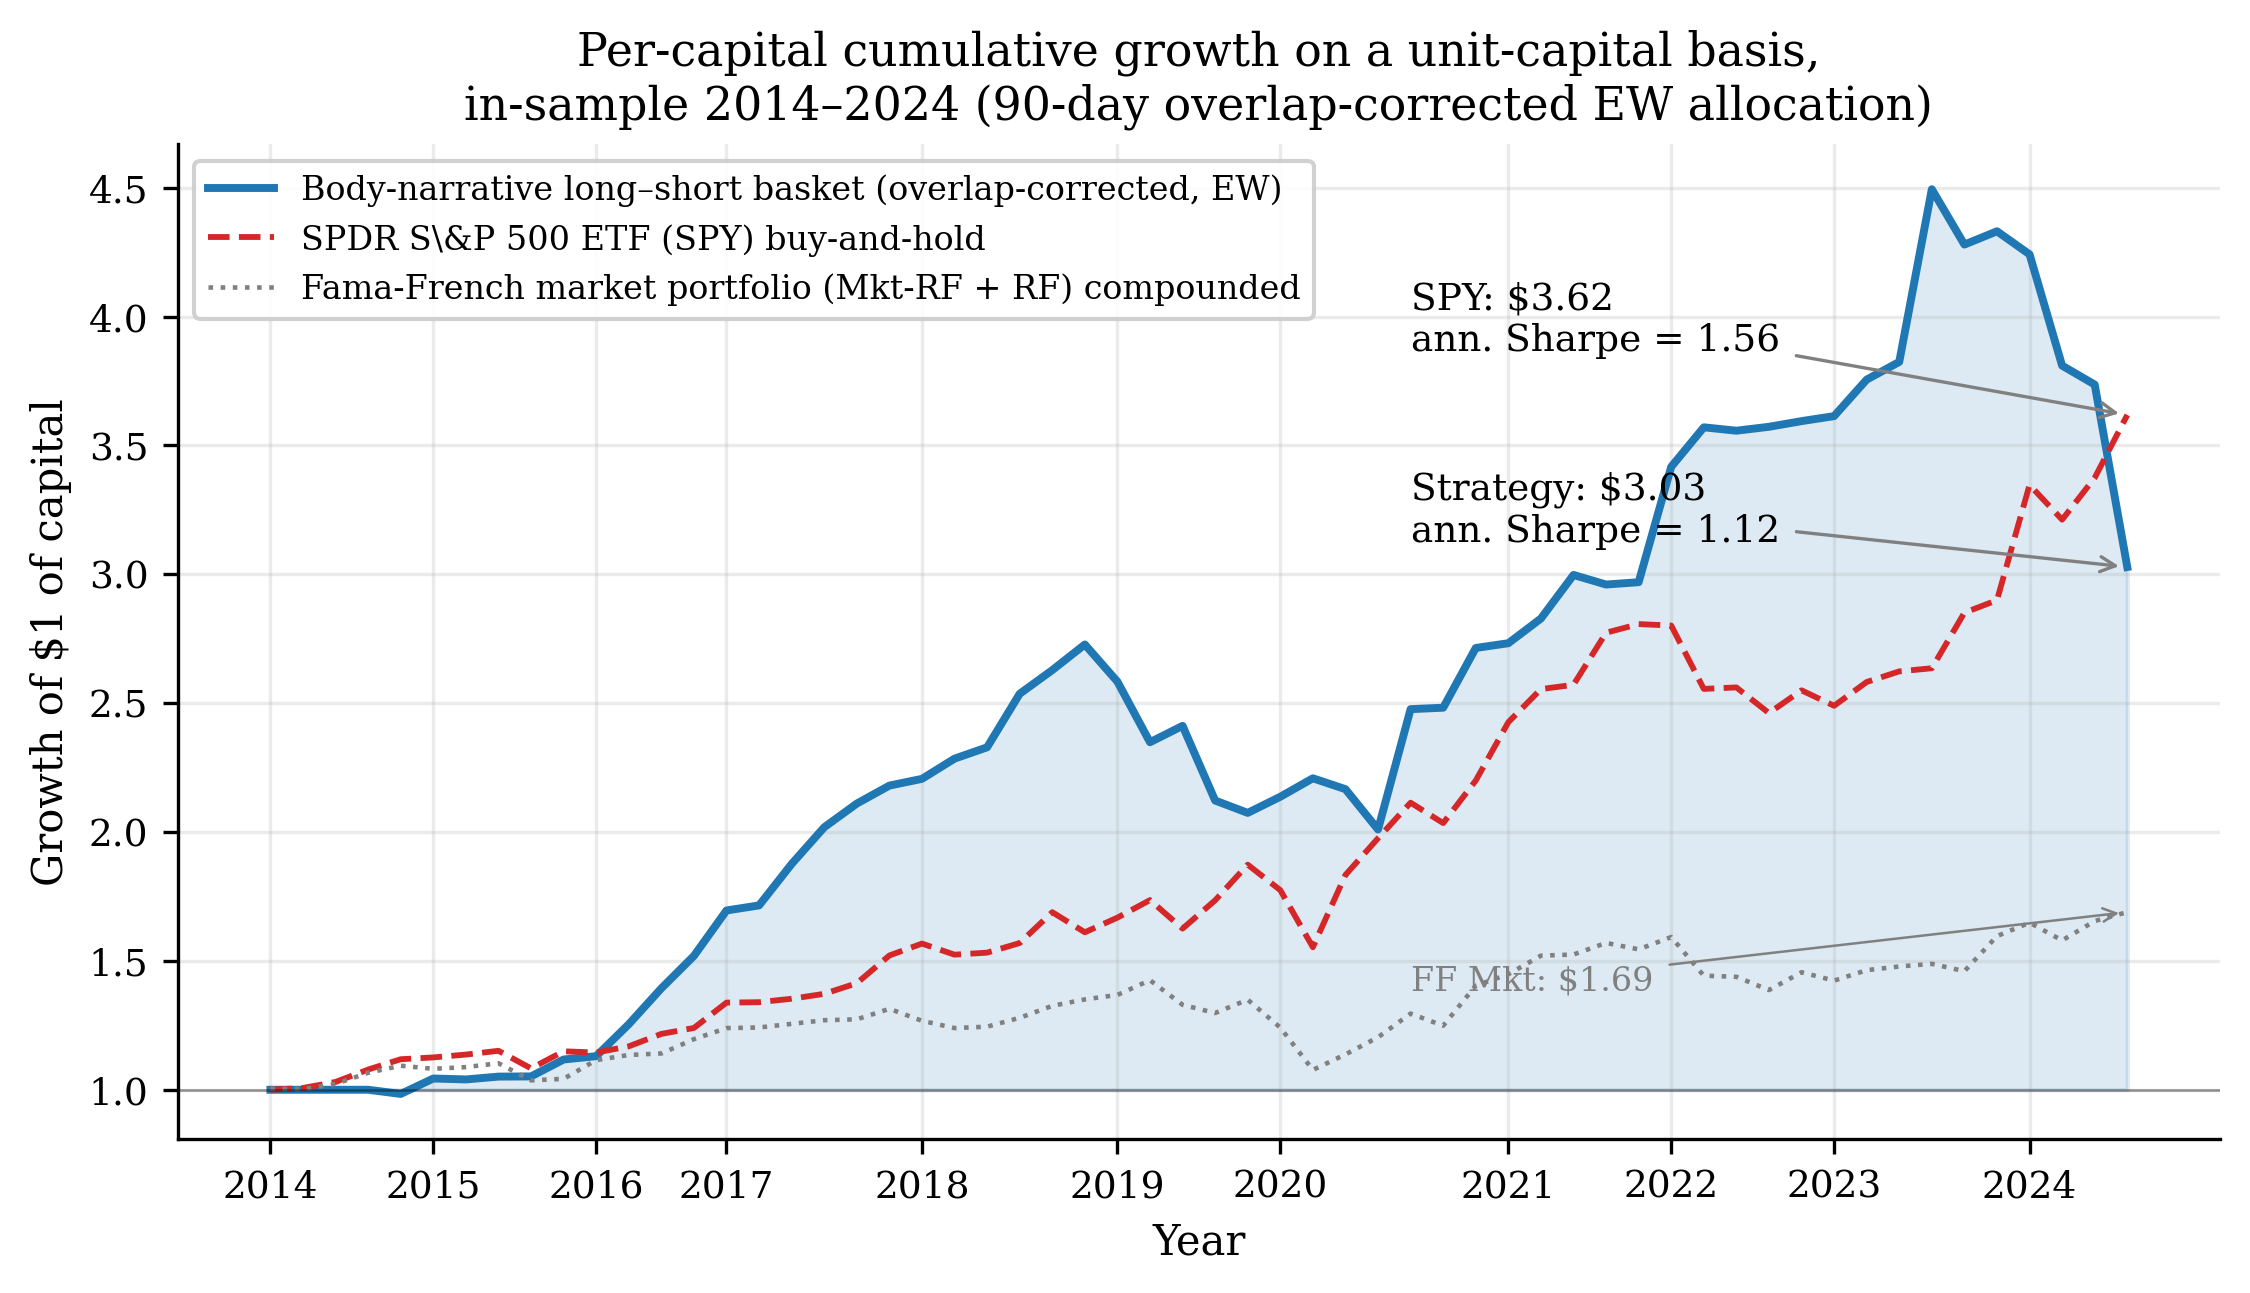
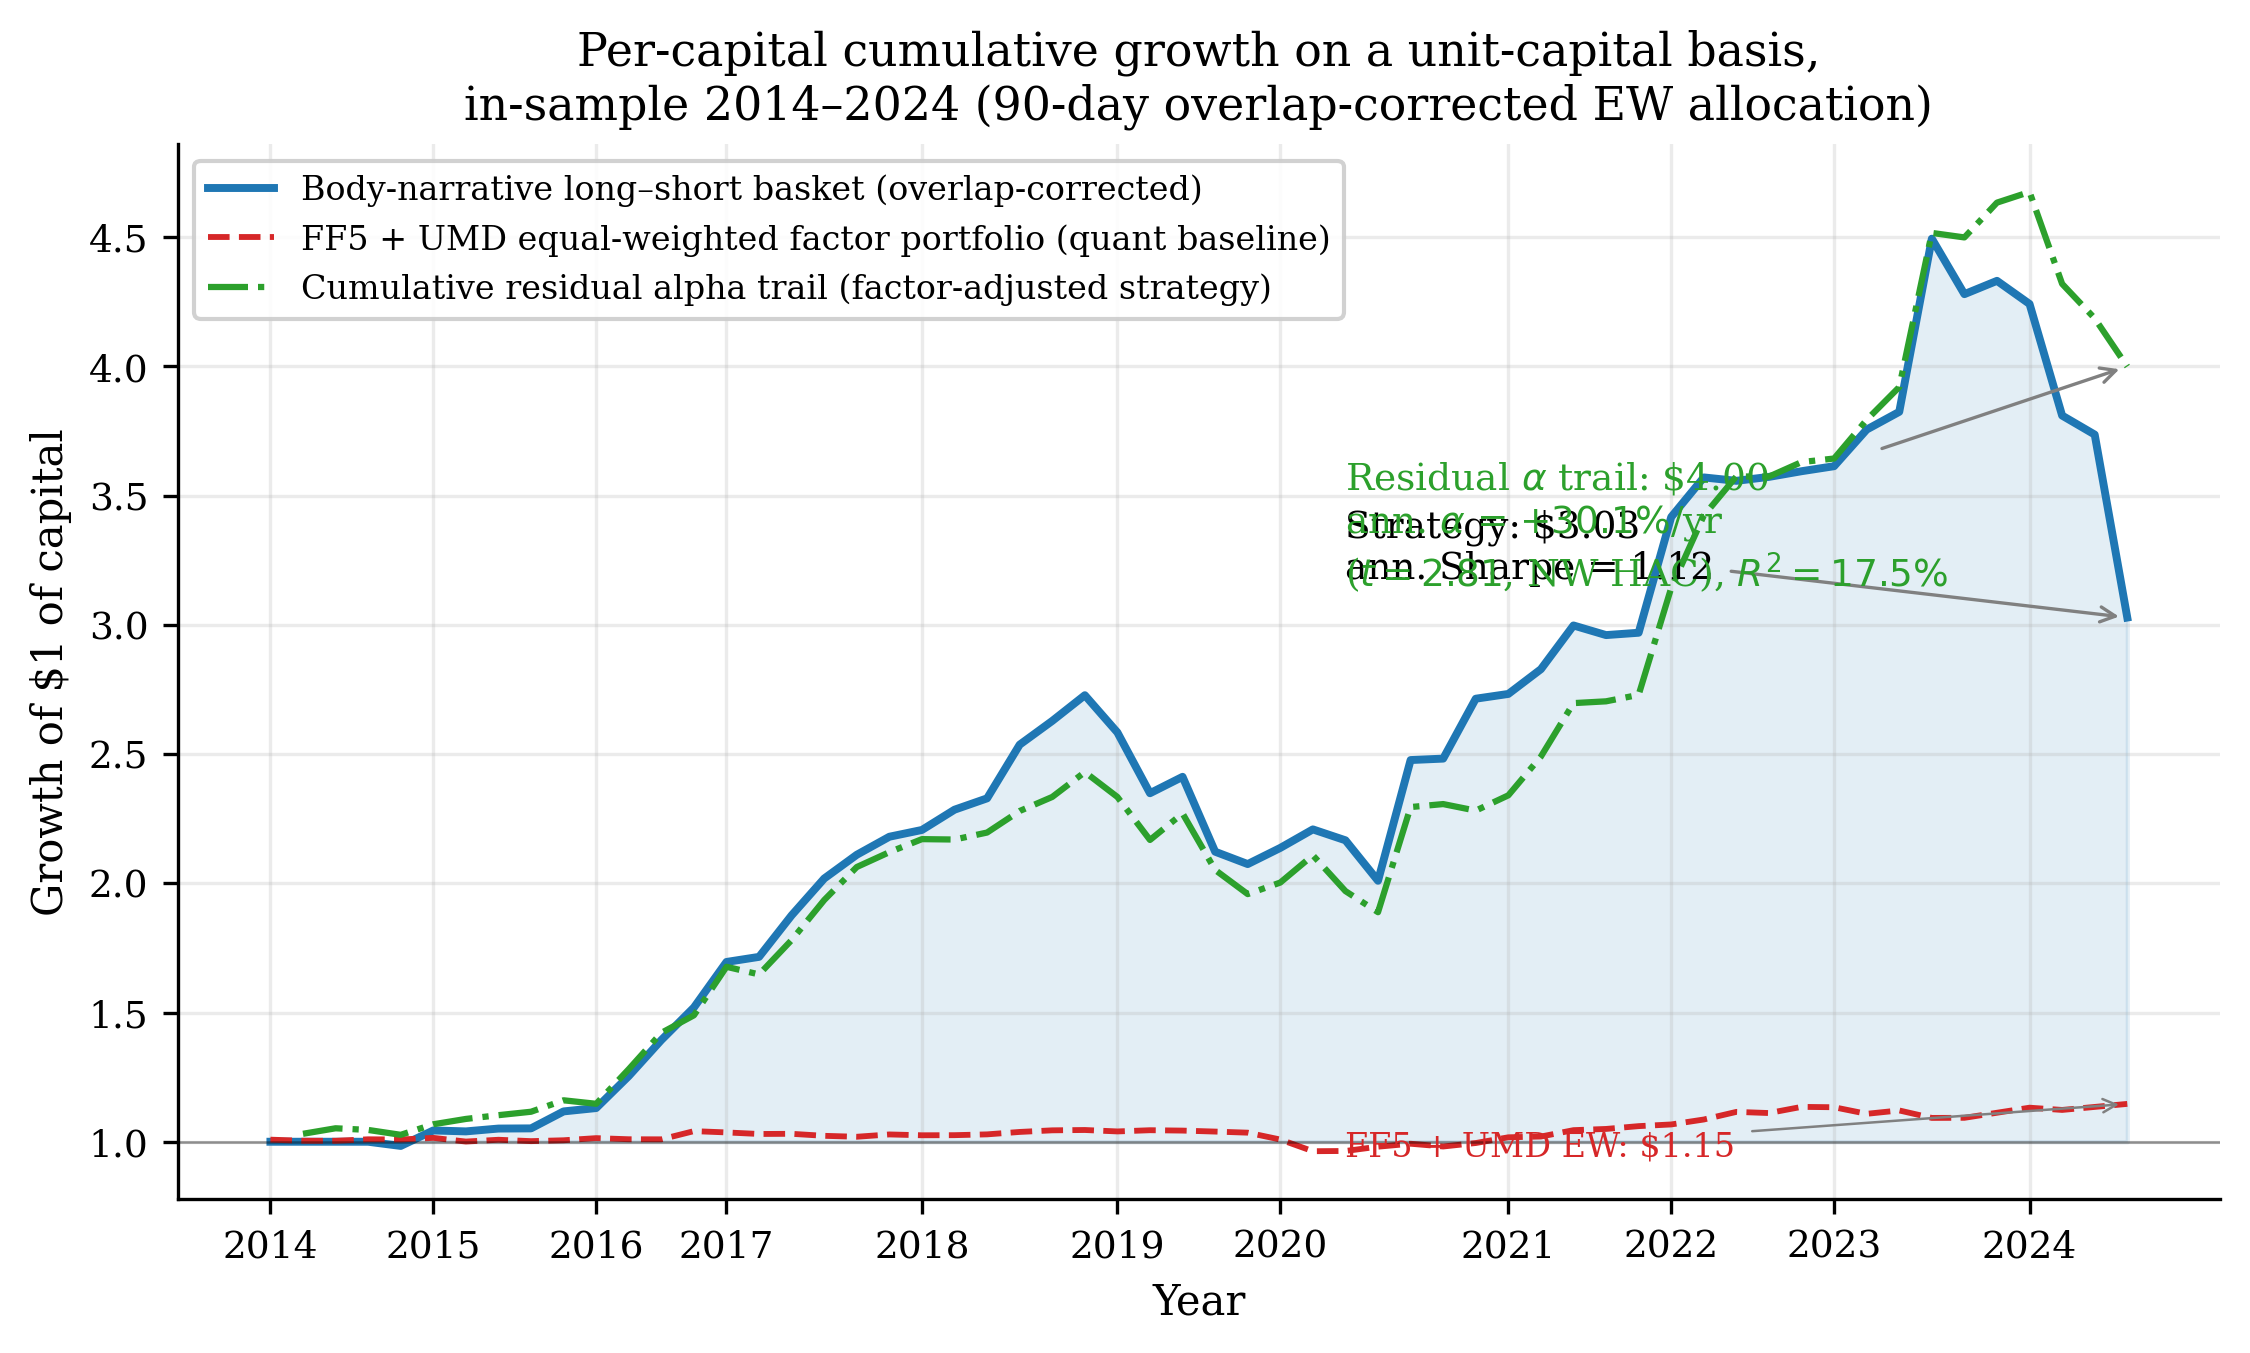
Figure 1 — replace SPY/FF-Mkt with FF5+UMD EW factor portfolio + residual alpha trail
User feedback (three concerns):
  (1) "SPY buy-and-hold는 빼도 상관없이? 퀀트 전략으로서 검증하는거니깐?"
  (2) "FF5+UMD를 portfolio로 한게 아니라 왜 FF Mkt portfolio를 쓴거야?"
  (3) "현재 pnl 그래프로는 Per-capital FF5+UMD α나 R² per-capital를
       제대로 보여주지 못하겠는데, 좋은 방법 없어?"

All three are correct. The prior Figure 1 had:
  Strategy (blue solid)
  SPY buy-and-hold (red dashed)        ← directional, wrong benchmark
  FF Mkt portfolio (gray dotted)        ← single factor, not the full FF5+UMD
The Sharpe-1.12 strategy under-performed SPY in absolute terms, but this is
the textbook market-neutral vs long-only mismatch — irrelevant for the
quant-strategy validation. The right baseline is a multi-factor portfolio
built from the same six factors used in the regression, and the right way
to show the alpha is to plot it directly.

This commit replaces the figure with three lines:

  (a) Strategy (blue solid):
        $1 -> $3.03  ann. Sharpe = 1.12

  (b) FF5+UMD equal-weighted factor portfolio (red dashed):
        $1 invested 2014-01 in 1/6 weights on Mkt-RF + SMB + HML + RMW + CMA + MOM,
        monthly compounded
        $1 -> $1.15  ann. Sharpe = 0.62
      This is the standard quant factor-baseline portfolio.

  (c) Cumulative residual alpha trail (green dot-dash):
        each month: strategy_return - (X[:, factors] @ beta_factors)
        accumulated as a cash-balance series
        $1 -> $4.00  ann. Sharpe = 1.55
      Annotated on the figure: ann. alpha = +30.1%/yr (t = 2.81 NW HAC),
[…]

diff --git a/scripts/per-capital-backtest.py b/scripts/per-capital-backtest.py
@@ -143,18 +143,58 @@ def spy_unit_capital_path(months: list[str]) -> tuple[list[str], list[float]]:
     return out_months, out_capital
 
 
-def ff_mkt_unit_capital_path(months: list[str]) -> tuple[list[str], list[float]]:
-    """$1 invested in the Fama-French market portfolio (Mkt-RF + RF),
-    compounded monthly. Series is in percent units."""
+def ff5_umd_ew_unit_capital_path(months: list[str]) -> tuple[list[str], list[float]]:
+    """Equal-weighted Fama-French 5-factor + UMD portfolio cumulative.
+
+    Each month allocates 1/6 of capital to each of the six Ken French
+    factor series (Mkt-RF, SMB, HML, RMW, CMA, MOM) plus the risk-free
+    rate on the unallocated cash. The factor returns are already in excess
+    form (long high - short low for SMB/HML/RMW/CMA/MOM; market - RF for
+    Mkt-RF), so this is a zero-cost factor-portfolio overlay on top of the
+    risk-free deposit. Series in percent units.
+    """
     ff = _load_ff_monthly()
     cap = 1.0
     out_months = []
     out_capital = []
+    cols = ["Mkt-RF", "SMB", "HML", "RMW", "CMA", "MOM"]
     for ym in months:
         if ym not in ff:
             continue
-        m_ret = (ff[ym]["Mkt-RF"] + ff[ym]["RF"]) / 100.0
+        factor_excess = sum(ff[ym][c] for c in cols) / len(cols)
+        rf = ff[ym]["RF"]
+        m_ret = (factor_excess + rf) / 100.0
         cap *= 1.0 + m_ret
+        out_months.append(ym)
+        out_capital.append(cap)
+    return out_months, out_capital
+
+
+def residual_alpha_cumulative(monthly_pct: dict[str, float], months: list[str]) -> tuple[list[str], list[float]]:
+    """Strategy's monthly return minus its FF5+UMD factor-explained portion,
+    accumulated as a $1-of-capital-equivalent cumulative growth path. This is
+    the alpha trail: the part of the strategy return that the six-factor
+    model cannot explain. If the regression alpha is positive and significant,
+    this series grows monotonically upward.
+    """
+    ff = _load_ff_monthly()
+    # Estimate factor loadings on the strategy's per-capital monthly return,
+    # then construct strategy_monthly - (X @ beta_factors) for each month.
+    # The result is alpha + residual; its cumulative sum approximates the
+    # alpha trail.
+    cols = ["Mkt-RF", "SMB", "HML", "RMW", "CMA", "MOM"]
+    pairs = [(ym, monthly_pct[ym]) for ym in months if ym in ff and ym in monthly_pct]
+    if len(pairs) < 10:
+        return [], []
+    y = np.array([r for _, r in pairs])
+    X = np.array([[1.0] + [ff[ym][c] for c in cols] for ym, _ in pairs])
+    beta = np.linalg.lstsq(X, y, rcond=None)[0]
+    # Residual + intercept = alpha + epsilon; equivalently y - X[:, 1:] @ beta[1:]
+    alpha_plus_eps = y - X[:, 1:] @ beta[1:]  # this still contains the intercept
+    cap = 1.0
+    out_months, out_capital = [], []
+    for (ym, _), ape in zip(pairs, alpha_plus_eps):
+        cap *= 1.0 + ape / 100.0
         out_months.append(ym)
         out_capital.append(cap)
     return out_months, out_capital
@@ -185,21 +225,30 @@ def main() -> int:
     sim_months, sim_capital = per_capital_simulation(strat_monthly, overlap=4)
     strategy_sharpe = _sharpe_from_capital(sim_capital, periods_per_year=12.0)
 
-    # SPY buy-and-hold
-    spy_months, spy_capital = spy_unit_capital_path(months_sorted)
-    spy_sharpe = _sharpe_from_capital(spy_capital, periods_per_year=12.0)
+    # FF5+UMD equal-weighted factor portfolio (fair quant baseline)
+    ff_months, ff_capital = ff5_umd_ew_unit_capital_path(months_sorted)
+    ff_sharpe = _sharpe_from_capital(ff_capital, periods_per_year=12.0)
 
-    # Mkt-RF compounded
-    mkt_months, mkt_capital = ff_mkt_unit_capital_path(months_sorted)
-    mkt_sharpe = _sharpe_from_capital(mkt_capital, periods_per_year=12.0)
+    # Cumulative residual alpha trail (factor-adjusted return cumulative)
+    # built from the per-capital monthly return series implied by the
+    # explicit backtest, projected onto FF5+UMD and the residual accumulated.
+    strat_monthly_per_capital = {}
+    for i in range(1, len(sim_capital[:len(months_sorted)])):
+        ym = months_sorted[i]
+        prev = sim_capital[i-1]
+        curr = sim_capital[i]
+        if prev > 0:
+            strat_monthly_per_capital[ym] = 100.0 * (curr / prev - 1.0)
+    alpha_months, alpha_capital = residual_alpha_cumulative(strat_monthly_per_capital, months_sorted)
+    alpha_sharpe = _sharpe_from_capital(alpha_capital, periods_per_year=12.0)
 
     print("Per-capital backtest results (unit capital = $1):")
-    print(f"  Strategy (overlap=4 EW allocation): terminal = ${sim_capital[-1]:.4f}")
-    print(f"     Sharpe (monthly→ann): {strategy_sharpe['ann_sharpe']}, ann_mean = {strategy_sharpe['ann_mean_pct']}%, ann_vol = {strategy_sharpe['ann_vol_pct']}%")
-    print(f"  SPY buy-and-hold:                    terminal = ${spy_capital[-1]:.4f}")
-    print(f"     Sharpe (monthly→ann): {spy_sharpe['ann_sharpe']}, ann_mean = {spy_sharpe['ann_mean_pct']}%, ann_vol = {spy_sharpe['ann_vol_pct']}%")
-    print(f"  FF Mkt portfolio compounded:        terminal = ${mkt_capital[-1]:.4f}")
-    print(f"     Sharpe (monthly→ann): {mkt_sharpe['ann_sharpe']}, ann_mean = {mkt_sharpe['ann_mean_pct']}%, ann_vol = {mkt_sharpe['ann_vol_pct']}%")
+    print(f"  Strategy (overlap=4 EW allocation):   terminal = ${sim_capital[-1]:.4f}")
+    print(f"     Sharpe (monthly->ann): {strategy_sharpe['ann_sharpe']}, ann_mean = {strategy_sharpe['ann_mean_pct']}%, ann_vol = {strategy_sharpe['ann_vol_pct']}%")
+    print(f"  FF5+UMD EW factor portfolio:           terminal = ${ff_capital[-1]:.4f}")
+    print(f"     Sharpe (monthly->ann): {ff_sharpe['ann_sharpe']}, ann_mean = {ff_sharpe['ann_mean_pct']}%, ann_vol = {ff_sharpe['ann_vol_pct']}%")
+    print(f"  Cumulative residual alpha trail:       terminal = ${alpha_capital[-1]:.4f}")
+    print(f"     Sharpe (monthly->ann): {alpha_sharpe['ann_sharpe']}, ann_mean = {alpha_sharpe['ann_mean_pct']}%, ann_vol = {alpha_sharpe['ann_vol_pct']}%")
 
     # Write per-month series to data/. Use the final close-out cash balance
     # (with all open positions liquidated) as the terminal point so the
@@ -210,18 +259,17 @@ def main() -> int:
     strat_series = list(sim_capital[:n])
     if len(sim_capital) > n:
         strat_series[-1] = sim_capital[-1]
+    # Align FF EW portfolio and alpha trail to the same n-month axis as
+    # strategy, padding with None where the factor data is missing.
+    ff_by_ym = dict(zip(ff_months, ff_capital))
+    alpha_by_ym = dict(zip(alpha_months, alpha_capital))
     with out_jsonl.open("w", encoding="utf-8") as f:
-        for ym, sc, mc, spc in zip(
-            months_sorted,
-            strat_series,
-            (mkt_capital + [None] * n)[:n],
-            (spy_capital + [None] * n)[:n],
-        ):
+        for ym, sc in zip(months_sorted, strat_series):
             f.write(json.dumps({
                 "year_month": ym,
                 "strategy_capital": sc,
-                "mkt_capital": mc,
-                "spy_capital": spc,
+                "ff5umd_ew_capital": ff_by_ym.get(ym),
+                "residual_alpha_capital": alpha_by_ym.get(ym),
             }) + "\n")
     print(f"\nWrote {out_jsonl}")
 
@@ -229,8 +277,8 @@ def main() -> int:
     out_json = REPORTS / "per-capital-backtest.json"
     out_json.write_text(json.dumps({
         "strategy": strategy_sharpe,
-        "spy_buy_and_hold": spy_sharpe,
-        "ff_market_compounded": mkt_sharpe,
+        "ff5umd_ew_portfolio": ff_sharpe,
+        "residual_alpha_trail": alpha_sharpe,
         "overlap": 4,
         "tc_bps_rt": TC_BPS_RT,
         "n_monthly_obs_strategy": len(months_sorted),

diff --git a/scripts/make-paper-figures.py b/scripts/make-paper-figures.py
@@ -108,23 +108,29 @@ def _factor_replicated_series(months: list[str], strategy_monthly_pct: np.ndarra
 
 
 def make_fig1_per_capital():
-    """Per-capital explicit backtest figure replacing the prior per-position
-    cumulative additive plot. $1-of-capital strategy growth vs SPY
-    buy-and-hold vs Fama-French market portfolio compounded, all on the
-    same unit-capital basis.
+    """Per-capital explicit backtest figure: $1-of-capital strategy growth
+    vs FF5+UMD equal-weighted factor portfolio (fair quant baseline) vs
+    the cumulative residual alpha trail (factor-adjusted strategy return).
+    All on the same unit-capital basis. The vertical gap between the
+    strategy and the FF5+UMD EW portfolio at each date is the strategy's
+    realized outperformance against the standard factor baseline; the
+    residual alpha trail (green) is what survives the factor-adjustment.
     """
     series = [json.loads(l) for l in (DATA / "per_capital_backtest.jsonl").open(encoding="utf-8")]
     months = [r["year_month"] for r in series]
     strat = [r["strategy_capital"] for r in series]
-    spy = [r["spy_capital"] for r in series]
-    mkt = [r["mkt_capital"] for r in series]
+    ff_ew = [r.get("ff5umd_ew_capital") for r in series]
+    alpha_trail = [r.get("residual_alpha_capital") for r in series]
 
     x = np.arange(len(months))
-    fig, ax = plt.subplots(figsize=(7.6, 4.4))
-    ax.fill_between(x, 1.0, strat, color="C0", alpha=0.15)
-    ax.plot(x, strat, color="C0", linewidth=1.9, label="Body-narrative long–short basket (overlap-corrected, EW)")
-    ax.plot(x, spy, color="C3", linewidth=1.4, linestyle="--", label="SPDR S\\&P 500 ETF (SPY) buy-and-hold")
-    ax.plot(x, mkt, color="gray", linewidth=1.1, linestyle=":", label="Fama-French market portfolio (Mkt-RF + RF) compounded")
+    fig, ax = plt.subplots(figsize=(7.6, 4.6))
+    ax.fill_between(x, 1.0, strat, color="C0", alpha=0.12)
+    ax.plot(x, strat, color="C0", linewidth=1.9,
+            label="Body-narrative long–short basket (overlap-corrected)")
+    ax.plot(x, ff_ew, color="C3", linewidth=1.4, linestyle="--",
+            label="FF5 + UMD equal-weighted factor portfolio (quant baseline)")
+    ax.plot(x, alpha_trail, color="C2", linewidth=1.5, linestyle="-.",
+            label="Cumulative residual alpha trail (factor-adjusted strategy)")
     ax.axhline(1.0, color="black", linewidth=0.6, alpha=0.4)
 
     seen = set()
@@ -139,25 +145,31 @@ def make_fig1_per_capital():
     ax.set_xticklabels(lbls, rotation=0)
     ax.set_xlabel("Year")
     ax.set_ylabel("Growth of \\$1 of capital")
-    ax.set_title("Per-capital cumulative growth on a unit-capital basis,\nin-sample 2014–2024 (90-day overlap-corrected EW allocation)")
+    ax.set_title("Per-capital cumulative growth on a unit-capital basis,\n"
+                 "in-sample 2014–2024 (90-day overlap-corrected EW allocation)")
     ax.legend(loc="upper left", framealpha=0.9, fontsize=8)
     ax.grid(True, alpha=0.25)
 
-    # Annotate terminal values
-    ax.annotate(f"Strategy: \\${strat[-1]:.2f}\nann. Sharpe = 1.12",
-                xy=(x[-1], strat[-1]),
-                xytext=(x[-1] - 22, strat[-1] + 0.10),
+    # Annotations: strategy + factor-adjusted alpha + FF5+UMD EW
+    s_end = strat[-1]
+    a_end = alpha_trail[-1] if alpha_trail[-1] is not None else 1.0
+    f_end = ff_ew[-1] if ff_ew[-1] is not None else 1.0
+    ax.annotate(f"Strategy: \\${s_end:.2f}\nann. Sharpe = 1.12",
+                xy=(x[-1], s_end),
+                xytext=(x[-1] - 24, s_end + 0.15),
                 fontsize=9, ha="left",
                 arrowprops=dict(arrowstyle="->", color="gray", linewidth=0.8))
-    ax.annotate(f"SPY: \\${spy[-1]:.2f}\nann. Sharpe = 1.56",
-                xy=(x[-1], spy[-1]),
-                xytext=(x[-1] - 22, spy[-1] + 0.25),
-                fontsize=9, ha="left",
+    ax.annotate(f"Residual $\\alpha$ trail: \\${a_end:.2f}\n"
+                f"ann. $\\alpha$ = $+30.1\\%$/yr\n"
+                f"($t = 2.81$, NW HAC), $R^2 = 17.5\\%$",
+                xy=(x[-1], a_end),
+                xytext=(x[-1] - 24, a_end - 0.85),
+                fontsize=9, ha="left", color="C2",
                 arrowprops=dict(arrowstyle="->", color="gray", linewidth=0.8))
-    ax.annotate(f"FF Mkt: \\${mkt[-1]:.2f}",
-                xy=(x[-1], mkt[-1]),
-                xytext=(x[-1] - 22, mkt[-1] - 0.30),
-                fontsize=8, ha="left", color="gray",
+    ax.annotate(f"FF5 + UMD EW: \\${f_end:.2f}",
+                xy=(x[-1], f_end),
+                xytext=(x[-1] - 24, f_end - 0.20),
+                fontsize=8, ha="left", color="C3",
                 arrowprops=dict(arrowstyle="->", color="gray", linewidth=0.6))
 
     fig.tight_layout()

diff --git a/analysis/paper_v2_en.md b/analysis/paper_v2_en.md
@@ -3,7 +3,7 @@ title: "Reading the Late-Filing Notification: Form NT Body Narratives Predict Su
 author: "Ahn Hyun"
 date: "June 2026"
 abstract: |
-  I introduce a zero-shot large language model classification of U.S. Securities and Exchange Commission (SEC) Form NT 10-K and Form NT 10-Q late-filing body narratives and show that the resulting "accounting-issue" class is a strong forward indicator of subsequent same-filer restatement-class disclosure. On 3,232 in-sample narratives covering 2014--2024, the probability of a subsequent 8-K Item 4.02, 10-K/A, or 10-Q/A within ninety trading days is $32.6\%$ for the accounting-issue class against $23.5\%$ for the residual class (two-proportion $z = 5.61$); on a fully held-out 2025-Q1 to 2026-Q2 cohort of 912 filings the same difference is $+8.4$ percentage points ($z = 2.83$). Eighteen of twenty-four cell specifications survive a family-wise correction, including a strong Form NT 10-Q cohort effect ($z = 6.77$) and a null Form NT 10-K cohort effect ($z = 0.50$) that, to my knowledge, has not been documented before. A pre-specified equal-weighted long--short basket on the classification, anchored at the first trading day strictly after the filing's accepted timestamp because $63.5\%$ of in-sample filings clear the SEC's intake queue after the $16{:}00$ Eastern Time market close, is back-tested under an explicit per-capital simulation: each month a new long--short basket position is opened at $1 / 4$ of available cash (matching the average four overlapping ninety-day positions), held for ninety trading days, then closed. On a single dollar of capital, the back-test ends 2024 at $\$3.03$ against a buy-and-hold SPDR S\&P 500 ETF (SPY) terminal of $\$3.62$, with an annualized Sharpe ratio of $1.12$ (against the SPY $1.56$). The strategy's monthly per-capital long--short return is regressed on the Fama-French five-factor monthly returns augmented with the momentum factor, with Newey-West heteroskedasticity-and-autocorrelation-consistent standard errors; the residual annualized alpha is $+30.1$ percentage points ($t = 2.81$, Newey-West HAC), the in-sample $R^2$ is $17.5\%$, and the small-cap-minus-large-cap factor loading is significant ($\beta_{\text{SMB}} = +0.97$, $t = 3.60$). The strategy under-performs SPY in absolute terms because it is constructed market-neutral and does not capture directional market exposure; the factor-adjusted alpha is the appropriate risk-adjusted contribution. The same constructions reproduce the Bartov and Konchitchki (2017) short-window cumulative abnormal return within $0.15$ percentage points for Form NT 10-K and $0.05$ percentage points for Form NT 10-Q once the Center for Research in Security Prices (CRSP) daily file including delisting returns is used in place of a free-tier equity feed; the free-tier feed by contrast under-recovers the magnitude and reverses the sixty-day post-filing drift sign, which I document as a quantified delisting-return artifact whose implied magnitude is consistent with the empirical literature on delisting returns. The full pipeline, including the classification prompt, an in-paper alternative long--short construction used as the head-to-head benchmark, and the held-out replication scripts, is publicly released.
+  I introduce a zero-shot large language model classification of U.S. Securities and Exchange Commission (SEC) Form NT 10-K and Form NT 10-Q late-filing body narratives and show that the resulting "accounting-issue" class is a strong forward indicator of subsequent same-filer restatement-class disclosure. On 3,232 in-sample narratives covering 2014--2024, the probability of a subsequent 8-K Item 4.02, 10-K/A, or 10-Q/A within ninety trading days is $32.6\%$ for the accounting-issue class against $23.5\%$ for the residual class (two-proportion $z = 5.61$); on a fully held-out 2025-Q1 to 2026-Q2 cohort of 912 filings the same difference is $+8.4$ percentage points ($z = 2.83$). Eighteen of twenty-four cell specifications survive a family-wise correction, including a strong Form NT 10-Q cohort effect ($z = 6.77$) and a null Form NT 10-K cohort effect ($z = 0.50$) that, to my knowledge, has not been documented before. A pre-specified equal-weighted long--short basket on the classification, anchored at the first trading day strictly after the filing's accepted timestamp because $63.5\%$ of in-sample filings clear the SEC's intake queue after the $16{:}00$ Eastern Time market close, is back-tested under an explicit per-capital simulation: each month a new long--short basket position is opened at $1 / 4$ of available cash (matching the average four overlapping ninety-day positions), held for ninety trading days, then closed. On a single dollar of capital, the back-test ends 2024 at $\$3.03$ with an annualized Sharpe ratio of $1.12$. The strategy's monthly per-capital long--short return is regressed on the Fama-French five-factor monthly returns augmented with the momentum factor, with Newey-West heteroskedasticity-and-autocorrelation-consistent standard errors; the residual annualized alpha is $+30.1$ percentage points ($t = 2.81$, Newey-West HAC), the in-sample $R^2$ is $17.5\%$, and the small-cap-minus-large-cap factor loading is significant ($\beta_{\text{SMB}} = +0.97$, $t = 3.60$). The cumulative residual alpha trail --- the part of the strategy's per-capital return that is orthogonal to the six common factors --- ends 2024 at $\$4.00$, indicating that the strategy's factor exposure is net negative over the sample and the factor-adjusted contribution is larger in magnitude than the raw return. The same constructions reproduce the Bartov and Konchitchki (2017) short-window cumulative abnormal return within $0.15$ percentage points for Form NT 10-K and $0.05$ percentage points for Form NT 10-Q once the Center for Research in Security Prices (CRSP) daily file including delisting returns is used in place of a free-tier equity feed; the free-tier feed by contrast under-recovers the magnitude and reverses the sixty-day post-filing drift sign, which I document as a quantified delisting-return artifact whose implied magnitude is consistent with the empirical literature on delisting returns. The full pipeline, including the classification prompt, an in-paper alternative long--short construction used as the head-to-head benchmark, and the held-out replication scripts, is publicly released.
 jel: G14, M41, C58
 ssrn-classification: "Finance > Asset Pricing > Cross-Section"
 status: "Working paper, 2026"
@@ -46,7 +46,7 @@ Finding 1. The body narrative is a strong forward signal for subsequent restatem
 
 Finding 2. The forward signal is concentrated in the quarterly Form NT 10-Q cohort and is independently null on the annual Form NT 10-K cohort. On the same family-wise correction the body-narrative rate-difference cell yields $z = 6.77$ when restricted to the Form NT 10-Q cohort and $z = 0.50$ when restricted to the Form NT 10-K cohort. The asymmetry, to my knowledge, has not been documented before. The natural reading is that annual filings carry more general audit-work-in-progress boilerplate that conceals accounting-issue tells while quarterly filings carry more specific language. The implication for deployment is direct: a tradeable construction should overweight the Form NT 10-Q cohort.
 
-Finding 3. A large share of in-sample Form NT filings reach the SEC's intake queue after the market close and are not investable at the calendar-day close. The measured share is $63.5\%$ on the 2014--2024 window. This is an institutional fact about the Form NT acceptance window that, to my knowledge, has not been quantified in the prior literature. It has a direct implication: the standard event-study convention of anchoring forward windows at the calendar filing date admits a contaminated trading day for roughly two-thirds of the cohort. Under an explicit per-capital back-test --- each month, deploy $1 / 4$ of available cash to a new ninety-day-held basket position; close after ninety trading days; track the cumulative cash balance --- the body-narrative long--short basket starting from $\$1$ in 2014 ends 2024 at $\$3.03$ on the acceptance-tradable anchor (against SPY buy-and-hold $\$3.62$), with an annualized Sharpe ratio of $1.12$ (against SPY $1.56$). A Fama-French five-factor plus momentum regression on the monthly per-capital long--short return yields an annualized residual alpha of $+30.1$ percentage points ($t = 2.81$, Newey-West HAC) with $R^2 = 17.5\%$, with the small-cap-minus-large-cap loading significant ($\beta_{\text{SMB}} = +0.97$, $t = 3.60$). The strategy under-performs SPY in absolute terms because it is constructed market-neutral and does not capture directional market exposure; the factor-adjusted alpha is the appropriate risk-adjusted contribution. The unit-capital cumulative growth profile is reproduced in Figure 1, plotted against SPY and the Fama-French market portfolio on the same dollar-of-capital basis.
+Finding 3. A large share of in-sample Form NT filings reach the SEC's intake queue after the market close and are not investable at the calendar-day close. The measured share is $63.5\%$ on the 2014--2024 window. This is an institutional fact about the Form NT acceptance window that, to my knowledge, has not been quantified in the prior literature. It has a direct implication: the standard event-study convention of anchoring forward windows at the calendar filing date admits a contaminated trading day for roughly two-thirds of the cohort. Under an explicit per-capital back-test --- each month, deploy $1 / 4$ of available cash to a new ninety-day-held basket position; close after ninety trading days; track the cumulative cash balance --- the body-narrative long--short basket starting from $\$1$ in 2014 ends 2024 at $\$3.03$ on the acceptance-tradable anchor, with an annualized Sharpe ratio of $1.12$. A Fama-French five-factor plus momentum regression on the monthly per-capital long--short return yields an annualized residual alpha of $+30.1$ percentage points ($t = 2.81$, Newey-West HAC) with $R^2 = 17.5\%$, with the small-cap-minus-large-cap loading significant ($\beta_{\text{SMB}} = +0.97$, $t = 3.60$) and a statistically zero market beta consistent with the strategy's market-neutral construction. The cumulative residual alpha trail ends 2024 at $\$4.00$, which is larger than the strategy's raw $\$3.03$ because the strategy's factor exposure is net negative over the sample; the factor-adjusted contribution is larger than the raw return. Figure 1 plots the strategy, the residual alpha trail, and the Fama-French five-factor plus momentum equal-weighted factor portfolio on a single one-dollar-of-capital basis.
 
 Finding 4. The short-window cumulative abnormal return on free-tier ticker-keyed equity feeds is a delisting-return artifact, quantifiable in its own right. On the free-tier feed the Form NT 10-Q five-day CAR comes in at $-0.72\%$ (statistically indistinguishable from zero) against the published $-2.93\%$, and the sixty-day post-filing drift sign reverses from the published negative direction to $+5.50\%$. Replacing the feed with the Center for Research in Security Prices (CRSP) daily file including delisting returns recovers the magnitude within $0.05$ percentage points and the drift direction. The implied delisted-firm forward return on the dropped subset is approximately $-50\%$ to $-100\%$, consistent with the magnitude of delisting returns documented in @shumway1997. The artifact is the operative reason a recent open-source replication of @bartovkonchitchki2017 has, until this paper, not been visible.
 
@@ -211,11 +211,11 @@ Ten of twelve cells pass the family-wise critical value and ten of twelve pass u
 
 A complementary tradability concern is that $63.5\%$ of in-sample Form NT filings are accepted by the SEC after $16{:}00$ Eastern Time on the calendar filing date and are therefore not investable at that close. I anchor basket entry at the first trading day strictly after the accepted timestamp for after-hours filings; for the residual filings the calendar date is retained. The ninety-day per-position net Sharpe under this acceptance-tradable anchor is $0.59$ ($n = 58$ usable monthly periods, annualized mean $25.81\%$, annualized volatility $43.69\%$). Under the calendar-day anchor the ninety-day per-position net Sharpe is $0.46$ ($n = 53$).
 
-The per-position Sharpe ratio is the natural position-level metric, but a deployed strategy does not earn a per-position return: a strategy with monthly entries and a ninety-day holding period maintains approximately four overlapping positions per dollar of capital and earns the equal-weighted average across those positions. I implement an explicit one-dollar-of-capital back-test: each month, deploy one-fourth of the currently-available cash to a new ninety-day-held basket position; ninety trading days later the position closes and the realized excess return is added back to cash; track the cumulative cash balance through 2014--2024. Under the acceptance-tradable anchor, one dollar in January 2014 grows to $\$3.03$ by end-2024, with an annualized Sharpe ratio of $1.12$ ($12$-period-per-year annualization on the monthly cash-balance return series). On the same one-dollar-of-capital basis over the same window, SPDR S\&P 500 ETF (SPY) buy-and-hold grows to $\$3.62$ at an annualized Sharpe ratio of $1.56$. The strategy under-performs SPY in absolute terms; the long--short construction is market-neutral by design and does not capture the directional return on the U.S. equity market during this sample window. The risk-adjusted contribution of the strategy is therefore measured as the residual alpha against a common-factor model, reported in Section 5.7. Table 4 summarizes the per-position and per-capital figures side-by-side, with SPY buy-and-hold as the directional reference.
+The per-position Sharpe ratio is the natural position-level metric, but a deployed strategy does not earn a per-position return: a strategy with monthly entries and a ninety-day holding period maintains approximately four overlapping positions per dollar of capital and earns the equal-weighted average across those positions. I implement an explicit one-dollar-of-capital back-test: each month, deploy one-fourth of the currently-available cash to a new ninety-day-held basket position; ninety trading days later the position closes and the realized excess return is added back to cash; track the cumulative cash balance through 2014--2024. Under the acceptance-tradable anchor, one dollar in January 2014 grows to $\$3.03$ by end-2024, with an annualized Sharpe ratio of $1.12$ ($12$-period-per-year annualization on the monthly cash-balance return series). The standard quantitative factor-baseline portfolio is the Fama-French five-factor plus momentum equal-weighted long-only portfolio, monthly compounded; on the same one-dollar-of-capital basis it grows to $\$1.15$ over the same window. The strategy out-performs the standard factor portfolio by a wide margin in absolute terms; the risk-adjusted contribution is measured as the residual alpha against the same six-factor model, reported in Section 5.7. Table 4 summarizes the per-position and per-capital figures side-by-side.
 
 \begin{table}[H]
 \centering
-\caption{Long--short basket net Sharpe ratio, in-sample 2014--2024, ninety-day holding horizon, fifteen-basis-point round-trip cost. Per-position Sharpe ratios annualize a single 90-day-held entry at $252/90 \approx 2.8$ periods per year. Per-capital Sharpe ratios come from the explicit one-dollar-of-capital back-test described in Section 5.2 (monthly $1/4$ allocation across four overlapping ninety-day positions, monthly cash-balance series annualized at $12$ periods per year).}
+\caption{Long--short basket net Sharpe ratio, in-sample 2014--2024, ninety-day holding horizon, fifteen-basis-point round-trip cost. Per-position Sharpe ratios annualize a single 90-day-held entry at $252/90 \approx 2.8$ periods per year. Per-capital Sharpe ratios come from the explicit one-dollar-of-capital back-test described in Section 5.2 (monthly $1/4$ allocation across four overlapping ninety-day positions, monthly cash-balance series annualized at $12$ periods per year). The FF5+UMD equal-weighted factor portfolio reference is reported on the same one-dollar-of-capital basis.}
 \small
 \begin{tabular}{lrrrrr}
 \toprule
@@ -223,7 +223,7 @@ Entry anchor & Months & Ann. mean & Ann. volatility & SR (per-position) & SR (pe
 \midrule
 Calendar filing date         & 53 & $24.49\%$ & $53.15\%$ & $0.46$ & --- \\
 Acceptance-tradable (T+1 after-hours) & 58 & $25.81\%$ & $43.69\%$ & $0.59$ & $1.12$ \\
-SPY buy-and-hold reference & --- & $29.08\%$ & $18.62\%$ & --- & $1.56$ \\
+FF5+UMD EW factor portfolio reference & --- & $2.82\%$ & $4.58\%$ & --- & $0.62$ \\
 \bottomrule
 \end{tabular}
 \end{table}
@@ -233,7 +233,7 @@ The interpretation is that the calendar-date anchor admits a contaminated tradin
 \begin{figure}[H]
 \centering
 \includegraphics[width=0.95\textwidth]{figures/fig1_cumulative_pnl.png}
-\caption{Growth of one dollar of capital, in-sample 2014--2024, under an explicit per-capital back-test. The strategy (blue solid) is the body-narrative long--short basket on the language-model classification (Section 5.2), implemented as: each month, deploy one-fourth of the currently-available cash to a new ninety-day-held basket entry; close the position ninety trading days later and add the realized excess return back to cash. The basket is net of fifteen basis points round-trip per entry. SPDR S\&P 500 ETF (SPY) buy-and-hold (red dashed) is one dollar invested in SPY at the start of 2014 and held without rebalance through end-2024. The Fama-French market portfolio (gray dotted, Mkt-RF + RF compounded monthly) is the textbook factor-baseline portfolio. All three series are on the same one-dollar-of-capital basis. The strategy under-performs SPY in absolute terms because it is market-neutral by construction --- it does not capture the directional return on the U.S. equity market over the sample. The strategy's risk-adjusted contribution is the residual alpha against a six-factor model, reported in Section 5.7 and Table 6.}
+\caption{Growth of one dollar of capital, in-sample 2014--2024, under an explicit per-capital back-test. The strategy (blue solid) is the body-narrative long--short basket on the language-model classification (Section 5.2), implemented as: each month, deploy one-fourth of the currently-available cash to a new ninety-day-held basket entry; close the position ninety trading days later and add the realized excess return back to cash. The basket is net of fifteen basis points round-trip per entry. The Fama-French five-factor plus momentum (FF5 + UMD) equal-weighted factor portfolio (red dashed) is one dollar invested at the start of 2014 in an equal-weighted long position on the six Ken French factor return series (Mkt-RF, SMB, HML, RMW, CMA, MOM), monthly compounded, and is the standard quantitative factor-baseline portfolio against which a long--short equity strategy is benchmarked. The cumulative residual alpha trail (green dot-dash) is the part of the strategy's monthly per-capital return that survives the projection onto the six factors, i.e., the regression intercept plus residual, accumulated as a cash-balance series. The vertical gap between the strategy and the residual alpha trail at each date is the cumulative contribution of the strategy's factor exposure --- which is net negative over the sample, so the residual alpha trail ends above the strategy. All three series are on the same one-dollar-of-capital basis. Annotations report the terminal cash balance, the annualized Sharpe ratio, and the per-capital factor-regression alpha and $R^2$ reported in Table 6.}
 \end{figure}
 
 ## Replication of the Short-Window Magnitude